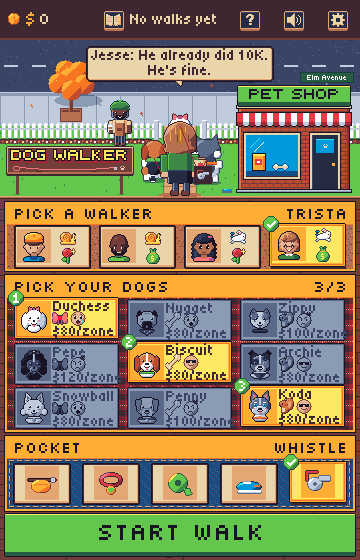
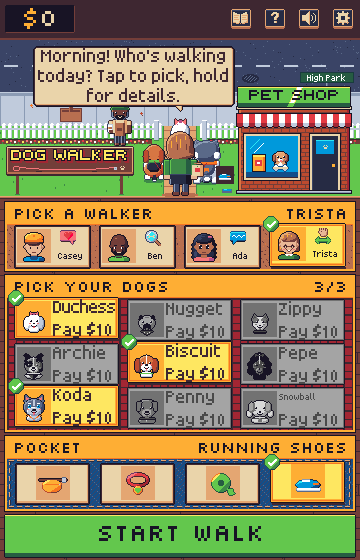
Regrab home-road and home-start from the Toronto build: Duchess pulling the pack toward a black squirrel in High Park, and the start screen with Trista, Duchess, Biscuit and Koda picked and Running shoes in the Pocket

diff --git a/art/inventory.md b/art/inventory.md
@@ -299,33 +299,33 @@ Card keys use the data keys (`card-skunk-rinse`, `card-belly-rubs`). The generou
 
 ## Screens and home
 
-| Key                                                           | Type   | Size                                       | Tags                         | Pri   | Note                                                                                                                                                                                    |
-| ------------------------------------------------------------- | ------ | ------------------------------------------ | ---------------------------- | ----- | --------------------------------------------------------------------------------------------------------------------------------------------------------------------------------------- |
-| `screen-end`, `screen-home`, `screen-loading`, `screen-stats` | image  | 360×560                                    |                              | core  |                                                                                                                                                                                         |
-| `home-road`, `home-start`                                     | image  | 360×560                                    |                              | later | Home page only, in `public/art/site/` so the game's manifest leaves them out. Canvas grabs at 1× from a build, first-time hints marked shown: Koda pulling on Elm Avenue, a picked pack |
-| `logo`                                                        | image  | 128×30                                     |                              | later | Yard sign board; also baked into `screen-loading` at 2×                                                                                                                                 |
-| `ui-loading-track`                                            | image  | 316×8                                      |                              | core  | Paw prints along the loading screen's sidewalk, from Casey's heel to the Pet shop's door                                                                                                |
-| `ui-loading`                                                  | sprite | 98×84                                      | `walk`                       | core  | Casey and Biscuit side on at the road sprites' size; `walk` 4 frames at 160ms                                                                                                           |
-| `ui-new-best`                                                 | image  | 72×20                                      |                              | core  | End screen ribbon                                                                                                                                                                       |
-| `fx-new-best`                                                 | sprite | 96×48                                      | `play`                       | core  | Burst behind `ui-new-best`                                                                                                                                                              |
-| `badge-<achievement>`                                         | sprite | 32×32                                      | `earned`, `locked`           | core  | 24; achievement id in kebab case                                                                                                                                                        |
-| `fx-confetti`                                                 | sprite | 64×64                                      | `play`                       | core  | Behind a badge as it is earned                                                                                                                                                          |
-| `icon-trait-<trait>`                                          | image  | 16×16                                      |                              | core  | chaser                                                                                                                                                                                  |
-| `icon-perk-<perk>`                                            | image  | 16×16                                      |                              | core  | calm-voice, kind-words, long-reach, treat-finder; walker tiles, the new walker celebration and the state strip                                                                          |
-| `icon-perk-<perk>-20`                                         | image  | 20×20                                      |                              | core  | calm-voice, kind-words, long-reach, treat-finder; the walk bar's effect wells                                                                                                           |
-| `item-<gear>`                                                 | image  | 32×32                                      |                              | core  | One per gear id (4)                                                                                                                                                                     |
-| `ui-pet-shop`                                                 | sprite | 120×108                                    | `normal`, `pressed`, `glint` | core  | The pet shop on screen-home's right lot at 234,86, which opens the shop; its PET SHOP board is 237,86 114×22; `glint` is 7 frames at 60ms, the last clean; `ui-afford` outlines it      |
-| `icon-dog-slot`                                               | image  | 32×32                                      |                              | core  | A pack slot for sale in the shop's slot rows                                                                                                                                            |
-| `ui-detail-card`, `ui-detail-band`, `ui-detail-well`          | image  | 24×24 nine-slice, 24×22 three-slice, 68×68 |                              | core  | Hold-to-open detail card                                                                                                                                                                |
-| `ui-detail-well-locked`                                       | image  | 68×68                                      |                              | core  | The detail card's well for a dog or walker not owned: neutral grey, under the portrait's ink silhouette                                                                                 |
-| `ui-check`                                                    | sprite | 16×16                                      | `1`, `2`, `3`, `tick`        | core  | Pick badge                                                                                                                                                                              |
-| `ui-select`                                                   | sprite | 24×24 nine-slice                           | `pulse`                      | core  | Selected frame                                                                                                                                                                          |
-| `ui-afford`                                                   | sprite | 24×24 nine-slice                           | `glint`                      | core  | Affordable frame                                                                                                                                                                        |
-| `ui-hint`                                                     | image  | 24×24 nine-slice                           |                              | core  | First-time hint bubble                                                                                                                                                                  |
-| `ui-hint-tail`                                                | image  | 8×6                                        |                              | core  |                                                                                                                                                                                         |
-| `ui-zone-banner`                                              | image  | 248×48                                     |                              | core  | The game writes both lines                                                                                                                                                              |
-| `ui-difficulty`                                               | sprite | 55×10                                      | `1` to `5`                   | core  | Under a zone's name on a fork's path card: that many filled paws out of five, 11px apart                                                                                                |
-| `fx-dust`, `fx-tap`                                           | sprite | 16×16                                      | `play`                       | core  |                                                                                                                                                                                         |
+| Key                                                           | Type   | Size                                       | Tags                         | Pri   | Note                                                                                                                                                                                      |
+| ------------------------------------------------------------- | ------ | ------------------------------------------ | ---------------------------- | ----- | ----------------------------------------------------------------------------------------------------------------------------------------------------------------------------------------- |
+| `screen-end`, `screen-home`, `screen-loading`, `screen-stats` | image  | 360×560                                    |                              | core  |                                                                                                                                                                                           |
+| `home-road`, `home-start`                                     | image  | 360×560                                    |                              | later | Home page only, in `public/art/site/` so the game's manifest leaves them out. Canvas grabs at 1× from a build, first-time hints marked shown: Duchess pulling in High Park, a picked pack |
+| `logo`                                                        | image  | 128×30                                     |                              | later | Yard sign board; also baked into `screen-loading` at 2×                                                                                                                                   |
+| `ui-loading-track`                                            | image  | 316×8                                      |                              | core  | Paw prints along the loading screen's sidewalk, from Casey's heel to the Pet shop's door                                                                                                  |
+| `ui-loading`                                                  | sprite | 98×84                                      | `walk`                       | core  | Casey and Biscuit side on at the road sprites' size; `walk` 4 frames at 160ms                                                                                                             |
+| `ui-new-best`                                                 | image  | 72×20                                      |                              | core  | End screen ribbon                                                                                                                                                                         |
+| `fx-new-best`                                                 | sprite | 96×48                                      | `play`                       | core  | Burst behind `ui-new-best`                                                                                                                                                                |
+| `badge-<achievement>`                                         | sprite | 32×32                                      | `earned`, `locked`           | core  | 24; achievement id in kebab case                                                                                                                                                          |
+| `fx-confetti`                                                 | sprite | 64×64                                      | `play`                       | core  | Behind a badge as it is earned                                                                                                                                                            |
+| `icon-trait-<trait>`                                          | image  | 16×16                                      |                              | core  | chaser                                                                                                                                                                                    |
+| `icon-perk-<perk>`                                            | image  | 16×16                                      |                              | core  | calm-voice, kind-words, long-reach, treat-finder; walker tiles, the new walker celebration and the state strip                                                                            |
+| `icon-perk-<perk>-20`                                         | image  | 20×20                                      |                              | core  | calm-voice, kind-words, long-reach, treat-finder; the walk bar's effect wells                                                                                                             |
+| `item-<gear>`                                                 | image  | 32×32                                      |                              | core  | One per gear id (4)                                                                                                                                                                       |
+| `ui-pet-shop`                                                 | sprite | 120×108                                    | `normal`, `pressed`, `glint` | core  | The pet shop on screen-home's right lot at 234,86, which opens the shop; its PET SHOP board is 237,86 114×22; `glint` is 7 frames at 60ms, the last clean; `ui-afford` outlines it        |
+| `icon-dog-slot`                                               | image  | 32×32                                      |                              | core  | A pack slot for sale in the shop's slot rows                                                                                                                                              |
+| `ui-detail-card`, `ui-detail-band`, `ui-detail-well`          | image  | 24×24 nine-slice, 24×22 three-slice, 68×68 |                              | core  | Hold-to-open detail card                                                                                                                                                                  |
+| `ui-detail-well-locked`                                       | image  | 68×68                                      |                              | core  | The detail card's well for a dog or walker not owned: neutral grey, under the portrait's ink silhouette                                                                                   |
+| `ui-check`                                                    | sprite | 16×16                                      | `1`, `2`, `3`, `tick`        | core  | Pick badge                                                                                                                                                                                |
+| `ui-select`                                                   | sprite | 24×24 nine-slice                           | `pulse`                      | core  | Selected frame                                                                                                                                                                            |
+| `ui-afford`                                                   | sprite | 24×24 nine-slice                           | `glint`                      | core  | Affordable frame                                                                                                                                                                          |
+| `ui-hint`                                                     | image  | 24×24 nine-slice                           |                              | core  | First-time hint bubble                                                                                                                                                                    |
+| `ui-hint-tail`                                                | image  | 8×6                                        |                              | core  |                                                                                                                                                                                           |
+| `ui-zone-banner`                                              | image  | 248×48                                     |                              | core  | The game writes both lines                                                                                                                                                                |
+| `ui-difficulty`                                               | sprite | 55×10                                      | `1` to `5`                   | core  | Under a zone's name on a fork's path card: that many filled paws out of five, 11px apart                                                                                                  |
+| `fx-dust`, `fx-tap`                                           | sprite | 16×16                                      | `play`                       | core  |                                                                                                                                                                                           |
 
 ## UI kit
 
